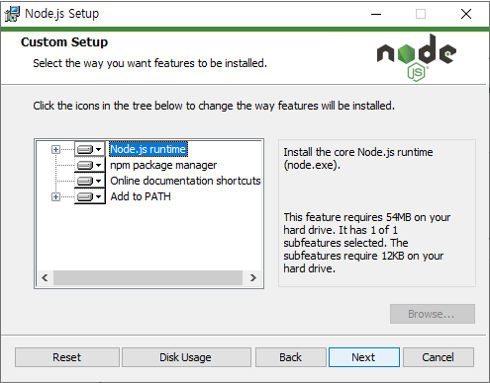
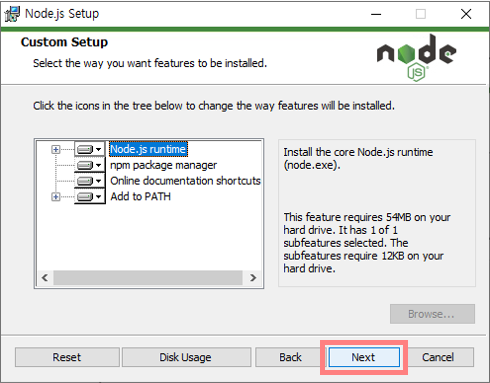
GitBook: [#5] detail change

Changed region(s): [[0.6429, 0.8903, 0.8571, 1.0]]

diff --git a/undefined/node-js.md b/undefined/node-js.md
@@ -1,0 +1,57 @@
+---
+description: Node JS 설치 가이드
+---
+
+# Node JS
+
+### Node JS 설치&#x20;
+
+#### 0. "02. Developer" 폴더에서 "node-v14.18.1-x64.msi" 실행&#x20;
+
+![](../.gitbook/assets/down\_02.png)
+
+#### 1. Next 버튼 클릭&#x20;
+
+![](../.gitbook/assets/n\_01.png)
+
+#### 2. "I accept the terms in the License Agreement" 체크 후 Next 버튼 클릭&#x20;
+
+![](../.gitbook/assets/n\_02.png)
+
+#### 3. Next 버튼 클릭&#x20;
+
+![](../.gitbook/assets/n\_03.png)
+
+#### 4. Next 버튼 클릭&#x20;
+
+![](../.gitbook/assets/n\_04.png)
+
+#### 5. "Automatically install ..." 체크  Next 버튼 클릭&#x20;
+
+![](../.gitbook/assets/n\_05.png)
+
+#### 6. Install 버튼 클릭&#x20;
+
+![](../.gitbook/assets/n\_06.png)
+
+#### 7. Finish 버튼 클릭&#x20;
+
+![](../.gitbook/assets/KakaoTalk\_20211026\_175818509.png)
+
+#### 8. 아무 키 입력&#x20;
+
+![](../.gitbook/assets/KakaoTalk\_20211026\_175818600.png)
+
+#### 9. 아무 키 입력&#x20;
+
+![](../.gitbook/assets/KakaoTalk\_20211026\_175818682.png)
+
+#### 10. Powershell 화면이 자동으로 닫힐 때 까지 대기&#x20;
+
+설치가 오래 걸릴 수 있습니다 &#x20;
+
+![](../.gitbook/assets/kakaopowershellnode.png)
+
+#### 11. 웹페이지 닫기&#x20;
+
+![](../.gitbook/assets/KakaoTalk\_20211026\_175818398.png)

diff --git a/mysql/workbench-mysql.md b/mysql/workbench-mysql.md
@@ -1,0 +1,44 @@
+---
+description: DB 서버 정보 등록
+---
+
+# Workbench Mysql 서버 등록
+
+#### 1. "Workbench" 검색 후 "MySQL Workbench 8.0 CE" 실행  &#x20;
+
+![](../.gitbook/assets/wc\_01.png)
+
+#### 2. MySQL Connections 의 "+" 버튼 클릭 &#x20;
+
+![](../.gitbook/assets/wc\_02.png)
+
+#### 3. Connection 정보 입력 후 "Store in Vault ..." 버튼 클릭    &#x20;
+
+| 종류              | 값              |
+| --------------- | -------------- |
+| Connection Name | ATS DB Server  |
+| Hostname        | gitlab.ats.com |
+| Username        | ats\_dev       |
+| Default Schema  | ats\_db        |
+
+![](../.gitbook/assets/wc\_03.png)
+
+#### 4. password "1q2w3e4r!" 입력 후 "OK" 버튼 클릭 &#x20;
+
+![](../.gitbook/assets/wc\_04.png)
+
+#### 5. "Test Connection" 버튼 클릭&#x20;
+
+![](../.gitbook/assets/wc\_05.png)
+
+#### 6. Successfully 메세지 확인 후 "OK" 버튼 클릭&#x20;
+
+![](../.gitbook/assets/wc\_06.png)
+
+#### 7. "OK" 버튼 클릭&#x20;
+
+![](../.gitbook/assets/wc\_07.png)
+
+#### 8. "ATS DB Server" 클릭&#x20;
+
+![](../.gitbook/assets/wc\_08.png)

diff --git a/SUMMARY.md b/SUMMARY.md
@@ -1,13 +1,19 @@
 # Table of contents
 
-* [설치파일 링크](README.md)
+## ATS 개발자용 가이드 <a href="ats-guide-dev" id="ats-guide-dev"></a>
+
+* [설치 프로그램 다운로드](README.md)
 
 ## 프로그램 설치 가이드
 
-* [Node JS](undefined-1/node-js.md)
-* [Git](undefined-1/git.md)
-* [MySQL Workbench](undefined-1/mysql-workbench.md)
-* [VS Code](undefined-1/vs-code.md)
+* [Node JS](undefined/node-js.md)
+* [Git](undefined/git.md)
+* [MySQL Workbench](undefined/mysql-workbench.md)
+* [VS Code](undefined/vs-code.md)
+
+## MySQL 서버 연결 가이드
+
+* [Workbench Mysql 서버 등록](mysql/workbench-mysql.md)
 
 ## VS Code 확장 프로그램 가이드
 

diff --git a/README.md b/README.md
@@ -1,7 +1,13 @@
 ---
-description: ATS 개발환경 설치파일 링크
+description: Naver Works 다운로드 링크
 ---
 
-# 설치파일 링크
+# 설치 프로그램 다운로드
+
+#### 1. 다운로드 링크 접속&#x20;
 
 [https://works.do/GRZF4i](https://works.do/GRZF4i)
+
+#### 2. "02. Developer" 폴더 내려받기&#x20;
+
+![](.gitbook/assets/down\_01.png)

diff --git a/undefined/vs-code.md b/undefined/vs-code.md
@@ -4,6 +4,10 @@ description: Visual Studio Code 설치 가이드
 
 # VS Code
 
+#### 0. "02. Developer" 폴더에서 "VSCodeUserSetup-x64-1.61.1.exe" 실행  &#x20;
+
+![](../.gitbook/assets/down\_05.png)
+
 #### 1. 동의합니다(A) 체크, 다음 버튼 클릭&#x20;
 
 ![](../.gitbook/assets/vsc\_01.png)

diff --git a/undefined/mysql-workbench.md b/undefined/mysql-workbench.md
@@ -4,6 +4,10 @@ description: MySQL Workbench 설치 가이드
 
 # MySQL Workbench
 
+#### 0. "02. Developer" 폴더에서 "mysql-workbench-community-8.0.27-winx64.msi" 실행 &#x20;
+
+![](../.gitbook/assets/down\_04.png)
+
 #### 1. Next 버튼 클릭&#x20;
 
 ![](../.gitbook/assets/wb\_01.png)

diff --git a/undefined/git.md b/undefined/git.md
@@ -4,6 +4,10 @@ description: Git 설치 가이드
 
 # Git
 
+#### 0. "02. Developer" 폴더에 "Git-2.33.1-64-bit.exe" 실행&#x20;
+
+![](../.gitbook/assets/down\_03.png)
+
 #### &#x20;1. Next 버튼 클릭&#x20;
 
 ![](../.gitbook/assets/g\_01.png)
